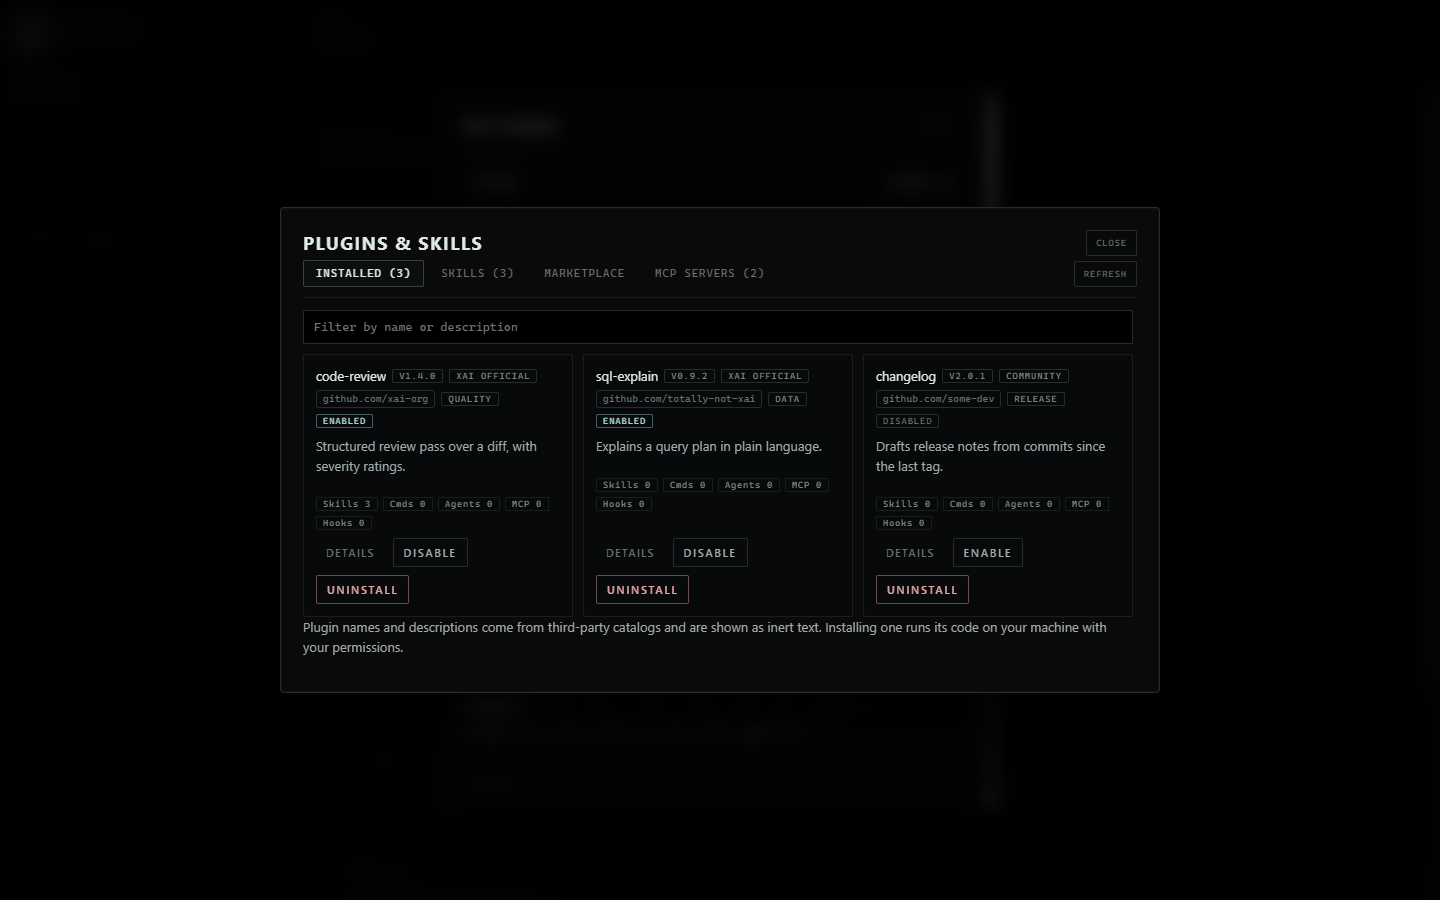
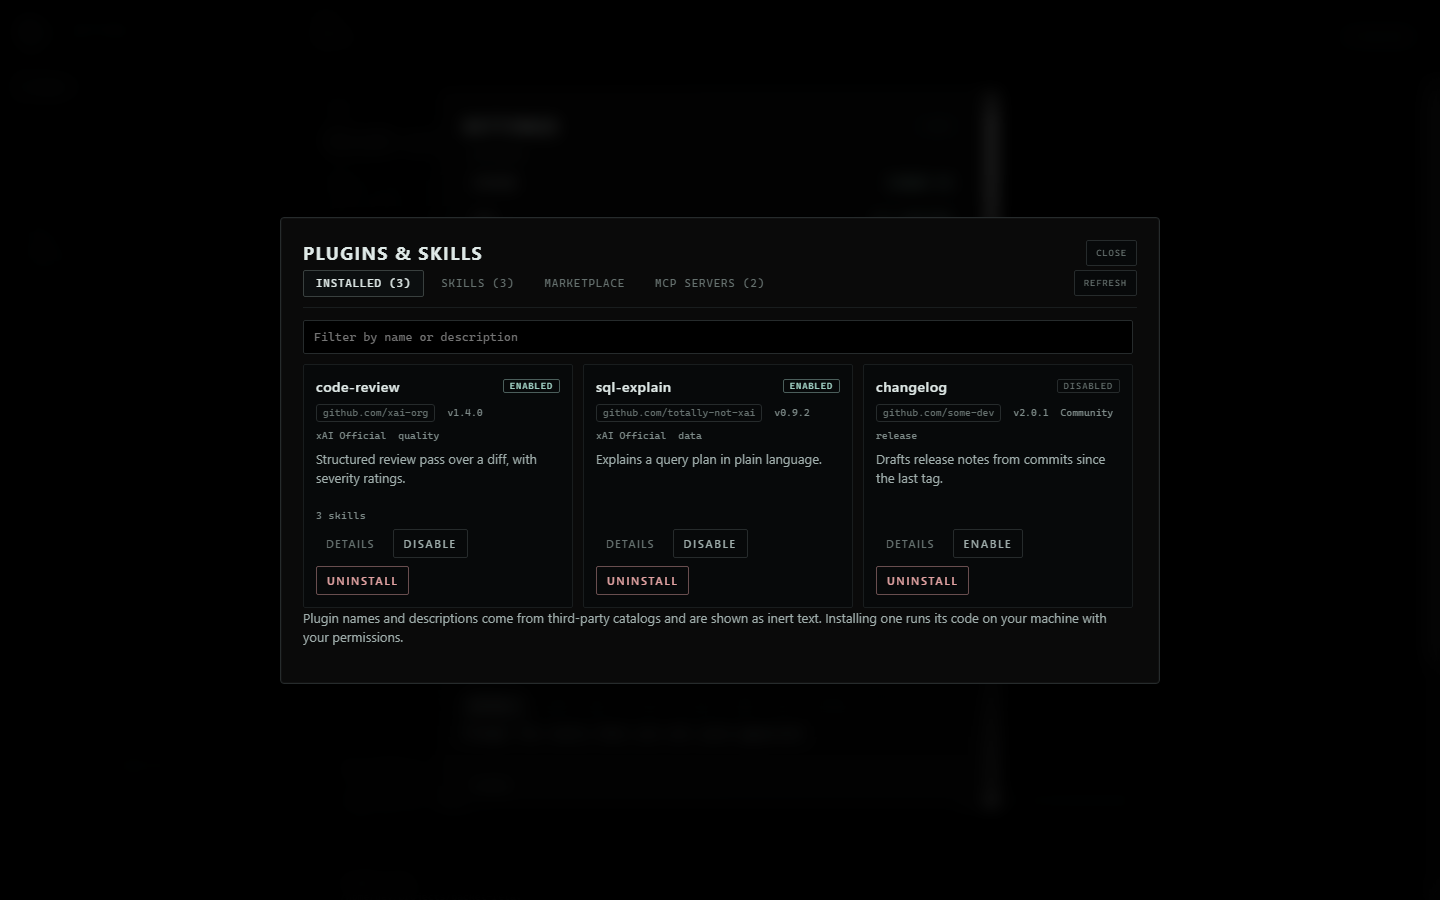
docs: refresh the README for 0.2.0
The README showed an app three releases old: the letter-G mark, the pre-black
chrome, no Focus, no agent dots, and a sign-out button that has since moved.

All six screenshots are now harness renders copied from tests/visual/baseline,
which is the property worth stating: they are the real components drawn with the
fixtures in src/__shots.tsx, whose paths are synthetic. No frame can contain a
real path or account name, which is a guarantee a hand-taken screenshot cannot
offer. Verified at merge by hashing each image against its source baseline.

The prose now matches the app. Sign out lives in Settings beside the account it
acts on. Spawned agents appear as a row of status dots under the turn that
started them, dim when finished, red when failed, pulsing while live, with the
Agents tab keeping that history until dismissed and no longer opening itself. The
shell is described as it is, and Focus is documented on both the topbar button
and the bracket key. The pre-release warning becomes the first-full-release note.
Alt text was rewritten so each image is described by what it now shows.

The contributing section gains the harness warning: close every other Gronk
window before running the visual suite, because it drives by clicking text and a
live app window will receive those clicks.

ONE KNOWN FLAW, KEPT DELIBERATELY. docs/images/skills.png and
docs/images/plugins.png are the same image, byte for byte, because the
[…]

diff --git a/README.md b/README.md
@@ -17,11 +17,12 @@ Your projects, your sessions, your history, in a window instead of a terminal.
 
 </div>
 
-![Gronk Home, showing recent projects and an activity heatmap](docs/images/home.png)
+![Gronk Home with the rock brand mark, pure-black chrome, Focus in the topbar, an activity heatmap, and recent projects](docs/images/home.png)
 
 > [!WARNING]
-> **Pre-release.** Built and tested on Windows. The macOS and Linux installers
-> come from CI and have not been run by the author yet. Reports welcome.
+> **0.2.0 is the first full release.** Built and tested on Windows. The macOS and
+> Linux installers come from CI and have not been run by the author yet. Reports
+> welcome.
 
 ## Download
 
@@ -43,7 +44,8 @@ intact, which is integrity rather than authorship.
 
 Gronk runs your local `grok` binary as a child process and talks to it over ACP.
 No backend, no bundled credentials, no model calls of its own. You sign in with
-your own Grok account.
+your own Grok account. Sign out lives in Settings, next to the account it acts
+on.
 
 There are two surfaces, and the difference is whether your files are involved.
 
@@ -52,11 +54,19 @@ There are two surfaces, and the difference is whether your files are involved.
 | **Chat** | A conversation. No project folder, so nothing reads or edits your files. |
 | **Build** | Grok pointed at a folder on your computer, where it can read, edit and run. |
 
+The shell is pure black with the rock brand mark in the rail. **Focus** (topbar
+button, or `[` when you are not typing in a field) hides the sidebar and the idle
+session tray so the conversation fills the frame.
+
 ### Watch the agent work
 
 Every tool call becomes a card. Reads, edits and shell commands, with diffs.
+Spawned agents show as a row of status dots under the turn that started them:
+dim when finished, red when failed, pulsing while live. The Agents tab in the
+session tray keeps that history until you dismiss it, and no longer opens itself
+when work starts.
 
-![A Build session showing tool call cards for read, edit and shell](docs/images/build.png)
+![A Build session with pure-black chrome, the rock mark, Focus in the topbar, and tool call cards for read, edit and shell](docs/images/build.png)
 
 ### Approve before anything runs
 
@@ -71,7 +81,7 @@ Gronk.
 Search titles and message text across Chat and Build at once. Results say where
 they matched and which surface they came from.
 
-![Sidebar search showing results with matching snippets](docs/images/search.png)
+![Sidebar search with pure-black chrome, the rock mark, Focus in the topbar, and results with matching snippets](docs/images/search.png)
 
 ### See your skills
 
@@ -79,7 +89,7 @@ Every skill on your machine, yours and the ones bundled with the CLI. A skill is
 a folder containing `SKILL.md`. Dropping it into `~/.grok/skills` is the whole
 install.
 
-![The Skills tab listing installed skills](docs/images/skills.png)
+![The Plugins and Skills panel, reached from Settings](docs/images/skills.png)
 
 ### Know where a plugin came from
 
@@ -87,7 +97,7 @@ Plugin cards show the account that published them, like `github.com/xai-org`.
 A marketplace name is a string anyone can set, so it is shown as a plain label
 and never as a badge. Gronk marks nothing as verified, because it cannot know.
 
-![Plugin cards showing publisher origins](docs/images/plugins.png)
+![Plugin cards on the Installed tab showing publisher origins](docs/images/plugins.png)
 
 ### Also
 
@@ -167,7 +177,9 @@ the magenta regions in `tests/visual/diff/`, then accept it with
 `npm run test:visual:update` if the change was intended.
 
 Baselines are rendered by one machine's font stack, so comparing them on a
-different OS reports differences that are not regressions.
+different OS reports differences that are not regressions. Close every other
+Gronk window before running the harness: it drives by clicking text, and a live
+app window will receive those clicks.
 
 ## Contributing
 
